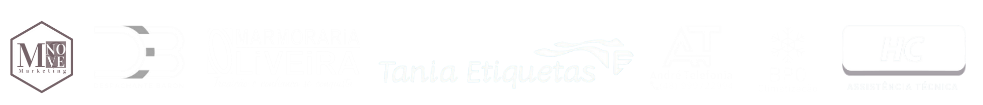
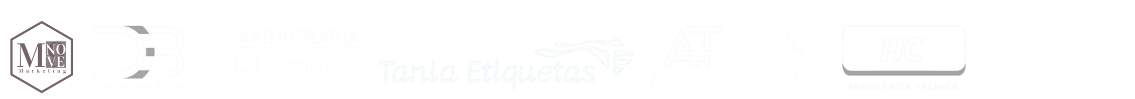
alterando patrocimadores

diff --git a/index.html b/index.html
@@ -33,7 +33,16 @@
         </div>
         <div>
             <p class="destaque">Developed by <a href="https://www.linkedin.com/in/gilberto-barbato-98198526/">@gibarbato</a></p>
-            <img id="patrocinio" src="./img/patrocinadores2.png"/>
+            <div>
+                <a href="#"><img class="imgPrincipal" src="./img/12 - Copia.png" /></a>
+                <a href="#"><img class="imgPrincipal" src="./img/14 - Copia.png" /></a>
+                <a href="#"><img class="imgPrincipal" src="./img/13 - Copia.png" /></a>
+                <a href="#"><img class="imgPrincipal" src="./img/15 - Copia.png" /></a>
+                <a href="#"><img class="imgPrincipal" src="./img/17 - Copia.png" /></a>
+                <a href="#"><img class="imgPrincipal" src="./img/16 - Copia.png" /></a>
+                <a href="#"><img class="imgPrincipal" src="./img/18 - Copia.png" /></a>
+                <a href="#"><img class="imgPrincipal" src="./img/19 - Copia.png" /></a>
+            </div>
         </div>
     </footer>
     <script src="scriptTela.js"></script>
